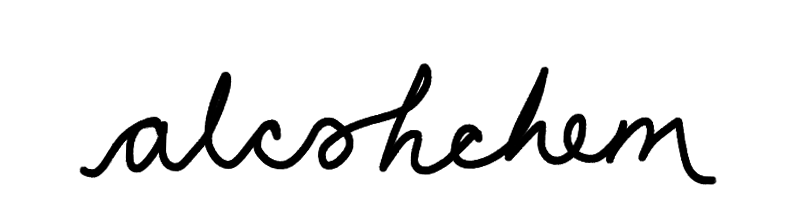
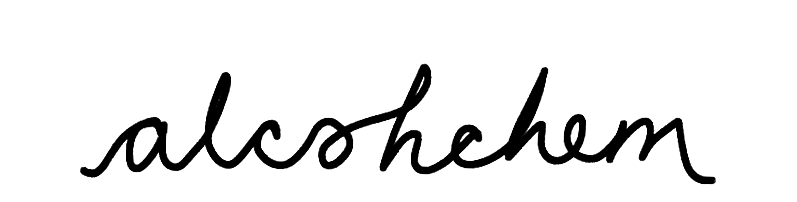
got rid of white bit on title

diff --git a/styles.css b/styles.css
@@ -34,7 +34,7 @@ ul {
 }
 
 .title {
-  background-image: url(images/chemistrypink.jpg);
+  background-image: url(images/chemie-png-7.png);
   background-repeat: no-repeat;
   background-position: bottom;
   background-size: 100%;

diff --git a/index.html b/index.html
@@ -20,7 +20,6 @@
       <h2> It's extrava-science! </h2>
     </div>
 
-
     <div id="cocktail-links" class="container-fluid">
       <div class="row">
         <div class="cocktail col-12 col-md-3">
